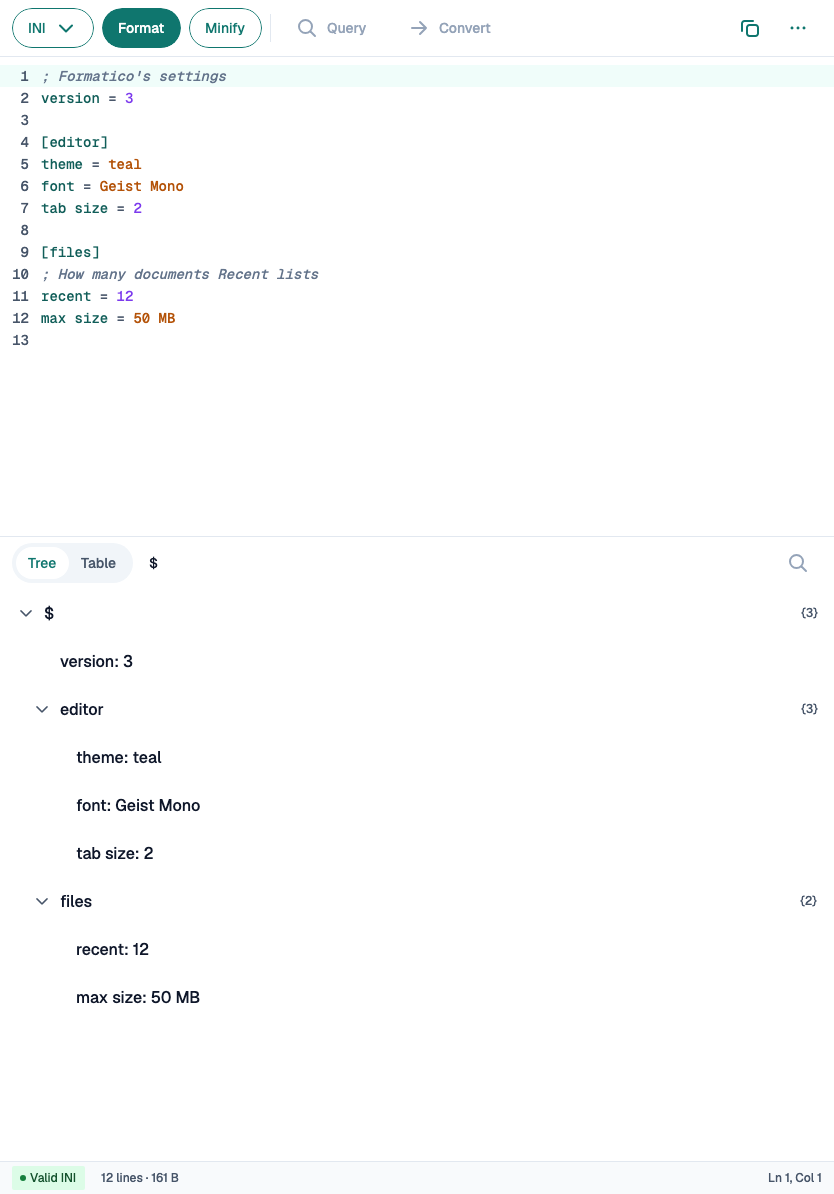
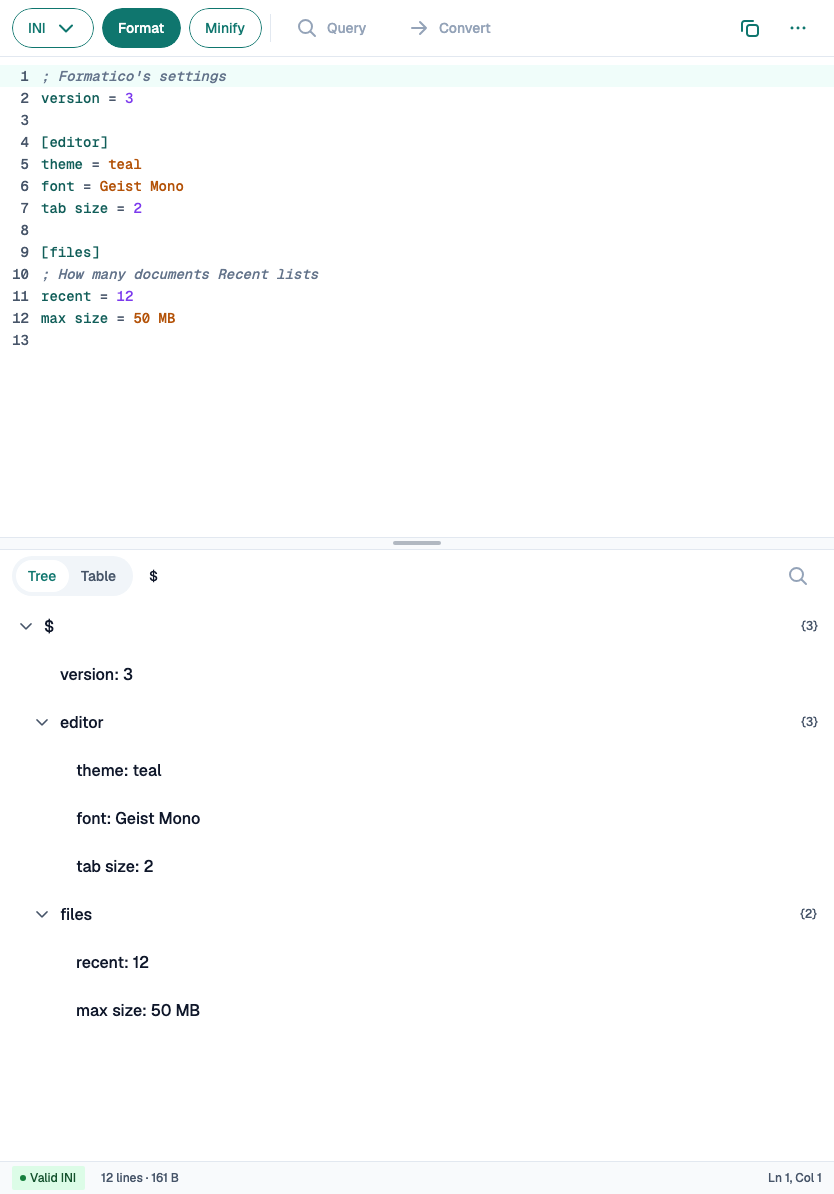
[DEV][Resize the text and the tree on a tablet by the handle between them]

diff --git a/feature/workspace/src/commonMain/kotlin/com/developersancho/formatico/feature/workspace/WorkspaceScreen.kt b/feature/workspace/src/commonMain/kotlin/com/developersancho/formatico/feature/workspace/WorkspaceScreen.kt
@@ -2,6 +2,7 @@ package com.developersancho.formatico.feature.workspace
 
 import androidx.compose.foundation.background
 import androidx.compose.foundation.layout.Arrangement
+import androidx.compose.foundation.layout.Box
 import androidx.compose.foundation.layout.Column
 import androidx.compose.foundation.layout.Row
 import androidx.compose.foundation.layout.Spacer
@@ -12,6 +13,7 @@ import androidx.compose.foundation.layout.height
 import androidx.compose.foundation.layout.padding
 import androidx.compose.runtime.Composable
 import androidx.compose.runtime.getValue
+import androidx.compose.runtime.mutableFloatStateOf
 import androidx.compose.runtime.mutableStateOf
 import androidx.compose.runtime.remember
 import androidx.compose.runtime.saveable.rememberSaveable
@@ -61,8 +63,11 @@ private const val TEXT_SHARE = 1.15f / 2.15f
 /** The share of a wide window the text takes beside the table: the design's 0.72 to 1.28. */
 private const val TABLE_TEXT_SHARE = 0.72f / 2f
 
-/** How tall the text stands above the tree on a tablet. */
-private val TextHeight = 480.dp
+/** How tall the text stands above the tree on a tablet until its handle is dragged: the board's 480, and its line. */
+private val TextHeight = 481.dp
+
+/** The strip the handle stands in between the text and the tree on a tablet: the board's 13, less the two lines. */
+private val HandleGap = 11.dp
 
 /** The workspace of the open document whose id is [documentId]: its toolbar, its text, its tree and its status. */
 @Composable
@@ -108,50 +113,83 @@ internal fun WorkspaceScreen(
         return
     }
     val wide = layout == WorkspaceLayout.Wide
-    val table = document.view.pane == DocumentPane.Table
-    val problems = document.view.pane == DocumentPane.Problems && state.problems.isNotEmpty()
     Column(modifier = modifier.fillMaxSize().background(PantrixTheme.colors.surface)) {
         Toolbar(state = state, document = document, layout = layout, onIntent = onIntent, commands = commands)
         PantrixHorizontalDivider()
-        if (table && !wide) {
+        if (document.view.pane == DocumentPane.Table && !wide) {
             // A tablet gives the table the whole room, as its board draws it.
             TablePane(state, layout, onIntent, commands, Modifier.weight(1f).fillMaxWidth())
             StatusBar(state = state, layout = layout)
             return@Column
         }
+        DocumentPanes(state, text, layout, onIntent, commands, Modifier.weight(1f).fillMaxWidth())
+        StatusBar(state = state, layout = layout, editor = text)
+    }
+}
+
+/**
+ * The text and, beside it in a wide window, the tree, the table or the problems; on a tablet the tree or the problems
+ * under it, past a strip of the page's background whose handle makes the text taller and shorter.
+ */
+@Composable
+private fun DocumentPanes(
+    state: WorkspaceState,
+    editor: CodeEditorState,
+    layout: WorkspaceLayout,
+    onIntent: (WorkspaceIntent) -> Unit,
+    commands: DocumentCommands,
+    modifier: Modifier = Modifier
+) {
+    val wide = layout == WorkspaceLayout.Wide
+    val pane = state.document?.view?.pane
+    val table = pane == DocumentPane.Table
+    val problems = pane == DocumentPane.Problems && state.problems.isNotEmpty()
+    // How tall the text stands on a tablet, as its handle leaves it.
+    var textHeight by rememberSaveable { mutableFloatStateOf(TextHeight.value) }
+    val second: @Composable () -> Unit = {
+        when {
+            table -> TablePane(state, layout, onIntent, commands)
+            problems -> ProblemsPane(state = state, editor = editor, layout = layout, onIntent = onIntent)
+            else -> TreePane(state = state, layout = layout, onIntent = onIntent)
+        }
+    }
+    if (wide) {
         PantrixTwoPane(
             first = {
-                if (wide) {
-                    Row(modifier = Modifier.fillMaxSize()) {
-                        TextPane(state, text, onIntent, Modifier.weight(1f).fillMaxHeight())
-                        PantrixVerticalDivider()
-                    }
-                } else {
-                    Column(modifier = Modifier.fillMaxSize()) {
-                        TextPane(state, text, onIntent, Modifier.weight(1f).fillMaxWidth())
-                        PantrixHorizontalDivider()
-                    }
+                Row(modifier = Modifier.fillMaxSize()) {
+                    TextPane(state, editor, onIntent, Modifier.weight(1f).fillMaxHeight())
+                    PantrixVerticalDivider()
                 }
             },
-            second = {
-                when {
-                    table -> TablePane(state, layout, onIntent, commands)
-                    problems -> ProblemsPane(state = state, editor = text, layout = layout, onIntent = onIntent)
-                    else -> TreePane(state = state, layout = layout, onIntent = onIntent)
-                }
-            },
-            modifier = Modifier.weight(1f).fillMaxWidth(),
-            orientation = if (wide) TwoPaneOrientation.SideBySide else TwoPaneOrientation.Stacked,
-            firstSize = when {
-                !wide -> PaneSize.Fixed(TextHeight)
-                table -> PaneSize.Fraction(TABLE_TEXT_SHARE)
-                else -> PaneSize.Fraction(TEXT_SHARE)
-            },
+            second = second,
+            modifier = modifier,
+            firstSize = PaneSize.Fraction(if (table) TABLE_TEXT_SHARE else TEXT_SHARE),
             gap = 0.dp,
             tagKey = "panes"
         )
-        StatusBar(state = state, layout = layout, editor = text)
+        return
     }
+    val surface = Modifier.fillMaxSize().background(PantrixTheme.colors.surface)
+    PantrixTwoPane(
+        first = {
+            Column(modifier = surface) {
+                TextPane(state, editor, onIntent, Modifier.weight(1f).fillMaxWidth())
+                PantrixHorizontalDivider()
+            }
+        },
+        second = {
+            Column(modifier = surface) {
+                PantrixHorizontalDivider()
+                Box(modifier = Modifier.weight(1f).fillMaxWidth()) { second() }
+            }
+        },
+        modifier = modifier.background(PantrixTheme.colors.background),
+        orientation = TwoPaneOrientation.Stacked,
+        firstSize = PaneSize.Fixed(textHeight.dp),
+        gap = HandleGap,
+        tagKey = "panes",
+        onFirstSizeChange = { size -> if (size is PaneSize.Fixed) textHeight = size.size.value }
+    )
 }
 
 /** The design's toolbar heights: 48 in a wide window, 56 on a tablet. */

diff --git a/feature/workspace/src/commonTest/kotlin/com/developersancho/formatico/feature/workspace/WorkspaceScreenTest.kt b/feature/workspace/src/commonTest/kotlin/com/developersancho/formatico/feature/workspace/WorkspaceScreenTest.kt
@@ -1,6 +1,7 @@
 package com.developersancho.formatico.feature.workspace
 
 import androidx.compose.runtime.CompositionLocalProvider
+import androidx.compose.ui.input.key.Key
 import androidx.compose.ui.test.ExperimentalTestApi
 import androidx.compose.ui.test.assert
 import androidx.compose.ui.test.assertIsEnabled
@@ -10,7 +11,12 @@ import androidx.compose.ui.test.getBoundsInRoot
 import androidx.compose.ui.test.hasText
 import androidx.compose.ui.test.onNodeWithText
 import androidx.compose.ui.test.performClick
+import androidx.compose.ui.test.performKeyInput
 import androidx.compose.ui.test.performTextInput
+import androidx.compose.ui.test.performTouchInput
+import androidx.compose.ui.test.pressKey
+import androidx.compose.ui.test.requestFocus
+import androidx.compose.ui.test.swipeDown
 import androidx.compose.ui.test.v2.runComposeUiTest
 import androidx.compose.ui.unit.DpSize
 import androidx.compose.ui.unit.dp
@@ -27,6 +33,7 @@ import com.pantrixui.testing.TestFileSaver
 import com.pantrixui.testing.assertNoFindings
 import com.pantrixui.testing.hasPantrixTag
 import com.pantrixui.testing.onPantrixNode
+import kotlin.math.abs
 import kotlin.test.Test
 import kotlin.test.assertEquals
 import kotlin.test.assertTrue
@@ -87,6 +94,8 @@ class WorkspaceScreenTest {
         awaitText("5 lines · ", substring = true)
         awaitText("UTF-8 · LF · 2 spaces")
         onPantrixNode("Node", "id", scope = "TreeView_document").assertExists()
+        // The text and the tree stand as the board splits them: there is no handle between them.
+        onPantrixNode("TwoPaneHandle", "panes").assertDoesNotExist()
         onPantrixNode("Button", "sort_keys").assertIsEnabled()
         onPantrixNode("Button", "format").performClick()
         onPantrixNode("Node", "customer.name", scope = "TreeView_document").performClick()
@@ -137,6 +146,37 @@ class WorkspaceScreenTest {
         onPantrixNode("Item", "customer", scope = "Breadcrumb_path").performClick()
 
         assertEquals(listOf<WorkspaceIntent>(WorkspaceIntent.Select("$.customer")), intents)
+        assertNoFindings(findings)
+    }
+
+    @Test
+    fun aTabletsHandleMakesTheTextTallerAndShorter() = runComposeUiTest {
+        val findings = PantrixFindings()
+        setContent {
+            PantrixTestTheme(window = tablet, findings = findings, clock = clock) {
+                WorkspaceScreen(state = stateOf(order, Format.Json), onIntent = {}, commands = rememberDocumentCommands(Workbench()))
+            }
+        }
+        awaitText("Valid JSON", forgetting = findings)
+        val handle = onPantrixNode("TwoPaneHandle", "panes")
+        val top = onPantrixNode("TwoPane", "panes").getBoundsInRoot().top
+        val split = { handle.getBoundsInRoot().let { (it.top + it.bottom) / 2 } - top }
+        // The handle stands in the middle of the strip under the text's 480 and its line.
+        val start = split()
+        assertTrue(abs((start - 486.5.dp).value) <= 1f, "The handle is at $start")
+
+        // An arrow makes the text a step taller, and Home as short as it may be.
+        handle.requestFocus()
+        handle.performKeyInput { pressKey(Key.DirectionDown) }
+        assertEquals(start + 16.dp, split())
+        handle.performKeyInput { pressKey(Key.MoveHome) }
+        val shortest = split()
+        assertTrue(shortest < start, "The handle is at $shortest")
+
+        // A drag makes it taller again.
+        handle.performTouchInput { swipeDown(startY = centerY, endY = centerY + 200f) }
+        assertTrue(split() > shortest, "The handle is at ${split()}")
+        onPantrixNode("TreeView", "document").assertExists()
         assertNoFindings(findings)
     }
 

diff --git a/docs/PANTRIX_FINDINGS.md b/docs/PANTRIX_FINDINGS.md
@@ -228,11 +228,21 @@ Formatico'nun işini tıkayan bir maddenin durumu `tıkıyor` der (`Durum: açı
     *   Nerede: [Components](https://pantrixui.com/components); MCP `search_components`.
     *   Öneri: simge, başlık, açıklama ve isteğe bağlı bir eylem alan bir `PantrixEmptyState`; tasarım sisteminde karşılığı.
     *   Durum: açık. Workspace (2026-11-03) aynı hâli beş yerde kendi çiziyor (`PaneMessage`): editörü bekleyen metin bölmesi, okunmayan bir biçim, düz metin, boş belge ve hiçbir değeri okunamayan belge.
-*   [ ] **İki bölmenin arasındaki ayırıcı sürüklenmiyor (2026-11-03).**
+*   [x] **İki bölmenin arasındaki ayırıcı sürüklenmiyor (2026-11-03).**
     *   Ne: Workspace-834 panosunda metin ile ağaç üst üste; aralarındaki ayırıcının bir tutamacı var ("Resize the text and the tree"): sürüklenince bölmelerin payı değişiyor. `PantrixTwoPane` iki bölmeyi `firstSize` (pay ya da sabit boy) ve `gap` ile ayırıyor, katlanan ekranın menteşesine uyuyor; ama ayırıcıyı sürükleyip `firstSize`'ı değiştirmenin yolu yok, `search_components "resizable split pane divider drag"` de başka bir bileşen bulmuyor.
     *   Nerede: [Two Pane](https://pantrixui.com/components/adaptive-two-pane); MCP `get_api PantrixTwoPane`, `search_components`.
     *   Öneri: `PantrixTwoPane`'e `onFirstSizeChange` ve sürüklenen bir ayırıcı (klavyeyle oklar, ekran okuyucuya "ayırıcı, yüzde 45"); ya da ayrı bir `PantrixSplitPane`.
-    *   Durum: açık, tıkıyor. (2026-11-04) Workspace-834 panosunun metin ile ağaç arasındaki tutamacı buna bağlı.  Kodda (2026-11-03) tablette metin 480 dp'lik sabit bölme, arada tutamaksız bir çizgi.
+    *   Durum: kapandı (0.1.2-SNAPSHOT, 2026-11-04). Önerildiği gibi geldi: `PantrixTwoPane(onFirstSizeChange)` boşluğa bir tutamaç koyuyor; parmak, işaretçi ve klavye (oklar, Home, End) ilk bölmeyi büyütüp küçültüyor, ekran okuyucuya bölmenin payı ayarlanabilir bir değer olarak söyleniyor, menteşe bölünce tutamaç yok. Tablette metin ile ağaç ya da problemler arasında artık panodaki 13 dp'lik şerit var: iki çizgi arasında sayfanın zemini ve ortasında tutamaç. Metin 480 dp'den başlıyor, sürüklenen boy ekranda tutuluyor (`rememberSaveable`). Denendi: JVM, iOS simülatörü ve Wasm testlerinde ok, Home ve sürükleme; geniş pencerede tutamaç yok. Denerken iki bulgu çıktı: "İki bölmenin tutamacı altındaki dokunuşları alıyor", "Bölme tutamacı tasarım sistemindekinden başka çiziliyor".
+*   [ ] **İki bölmenin tutamacı altındaki dokunuşları alıyor (2026-11-04).**
+    *   Ne: `PantrixTwoPane`'in tutamacı, yakalandığı şeridi (`ListDetailScaffoldStyle.handleTarget`: Android'de 48, iOS'ta 44, masaüstünde ve web'de 16 dp) boşluğun ortasına, bölmelerin üstüne ve odanın bütün genişliğince koyuyor. Şerit boşluktan genişse bölmelerin kenarındaki dokunuşları da o alıyor: sürüklenmeyen bir dokunuş alttaki denetime geçmiyor. Workspace-834'te boşluk panodaki gibi 11 dp; Android'de şerit ağacın görünüm seçicisinin (Tree, Table, Problems) üst 15 dp'sini, iOS'ta 11 dp'sini kapatıyor ve oraya dokunmak hiçbir şey yapmıyor; metnin son satırının yarısı da öyle. Masaüstünde 16 dp'lik şerit seçiciye yetişmiyor. Bir sınamayla görüldü: seçicinin üst kenarının 2 dp altına dokunmak Android'de ve iOS'ta görünüm değiştirmiyor, ortasına dokunmak değiştiriyor.
+    *   Nerede: MCP `get_component TwoPane` ("A handle"); kaynak jar'da `TwoPane.kt` ve `PaneHandle.kt` (`Modifier.fillMaxWidth().height(look.target)`).
+    *   Öneri: şerit yalnızca çubuğun çevresini yakalasın (Material 3'ün sürükleme tutamacı gibi çubuğun boyunca 48 dp'lik bir dokunma hedefi); ya da sürüklenmeyen dokunuşları alttaki bölmeye bıraksın. Belge, şeridin boşluktan geniş olduğunda bölmelerin kenarını kapattığını söylesin.
+    *   Durum: açık. Formatico'yu tıkamıyor. Kodda boşluk panodaki 11 dp'de kaldı; şerit için boşluk büyütülmedi, çünkü pano 13 dp çiziyor.
+*   [ ] **Bölme tutamacı tasarım sistemindekinden başka çiziliyor (2026-11-04).**
+    *   Ne: Tasarım sisteminin `.ptx-pane-handle`'ı 4×32 px'lik bir çubuk, `--border-strong` renginde (açıkta slate-500); odakta şeridin çevresine `--focus-ring` çiziyor. Kütüphanenin tutamacı çubuğu `textSecondary`'nin %40'ında çiziyor (bir sayfanın tutamacının rengi), işaretçinin altında ve sürüklenirken koyulaştırıyor, odakta çubuğu odak rengine boyuyor. Android'de ve iOS'ta çubuk 48 dp uzun. Panolar tasarım sistemine uyuyor: Workspace-834'te çubuk koyu ve 32 px, kodda açık; dokunmatikte 48 dp. `PantrixTwoPane` renk almıyor, `ListDetailScaffoldStyle` yalnızca boyları alıyor.
+    *   Nerede: Claude Design'daki tasarım sistemi, `components/bundle.css` (`.ptx-pane-handle`); MCP `get_api ListDetailScaffoldStyle`; kaynak jar'da `PaneHandle.kt` (`barColor`).
+    *   Öneri: iki taraftan biri ötekine uysun: kütüphane çubuğu `borderStrong` ile çizsin, ya da tasarım sistemi `text-secondary`'nin %40'ını ve dokunmatikte 48'i alsın. Tutamacın rengi bir stilde ya da `colors`'ta verilebilsin.
+    *   Durum: açık. Formatico'yu tıkamıyor. Kodda kütüphanenin çizdiği.
 *   [ ] **Ayın adıyla yazılan, haftanın günü olmayan bir tarih yok (2026-11-03).**
     *   Ne: Workspace-390 panosunun seçili değer kartı bir tarihi "28 October 2026, 14:32 UTC" diye, haftanın gününü alt satırda yazıyor. `PantrixStrings`'in `date` kısa biçimi veriyor ("Oct 28, 2026"); `longDate` ayın adını yazıyor ama haftanın gününü de katıyor ("Wednesday, October 28, 2026"), çünkü ekran okuyucunun bir takvim gününü duyduğu biçim (`longDateTemplate`). Haftanın günü olmadan ayın adıyla yazan bir biçim yok.
     *   Nerede: MCP `get_api PantrixStrings` (`date`, `longDate`, `longDateTemplate`); MCP `get_documentation_page guide/date-time`.

diff --git a/docs/OPEN_ITEMS.md b/docs/OPEN_ITEMS.md
@@ -162,9 +162,9 @@ Her madde: **ne**, **nerede**, **öneri**, **durum**. Kapanan madde silinmez: ne
 *   [ ] **Değer önizlemesi yalnızca sözcük (2026-11-03).**
     *   Ne: Panolarda ağacın satırı bir renk örneği, bir bağlantı simgesi ve bir küçük resim gösteriyor; `PantrixTreeView` satırın sonuna yalnızca metin aldığı için Formatico "Colour", "Link", "Picture" yazıyor. Tarih, okuyucunun dilinde UTC olarak yazılıyor. Bkz. `PANTRIX_FINDINGS.md`.
     *   Durum: açık.
-*   [ ] **Tabletin metin ile ağaç arasındaki ayırıcısı sürüklenmiyor (2026-11-03).**
+*   [x] **Tabletin metin ile ağaç arasındaki ayırıcısı sürüklenmiyor (2026-11-03).**
     *   Ne: Workspace-834 panosundaki "Resize the text and the tree" tutamacı çizilmiyor; metin 480 dp, ağaç geri kalanı. Bkz. `PANTRIX_FINDINGS.md`.
-    *   Durum: açık.
+    *   Durum: kapandı (2026-11-04). Tablette metin ile ağaç ya da problemler arasında panodaki 13 dp'lik şerit ve `PantrixTwoPane`'in tutamacı var; metin 480 dp'den başlıyor, sürüklenen boyu ekran tutuyor. Tutamacın rengi ve dokunmatikteki şeridi panodan ayrılıyor: iki yeni Pantrix bulgusu.
 *   [x] **Koin'in bağlamı `App()` bitince kapanmıyor (2026-11-03).**
     *   Ne: Masaüstünün UI testlerinde bir testin açtığı belgeler bir sonraki testin `App()`'inde açık duruyor: `KoinApplication` (Koin 4.2.2) aynı süreçte bağlamını yeniden kullanıyor, `Workbench` tekil olarak yaşıyor. Uygulamada istenen bu (döndürmede sekmeler kalıyor), testlerde ise sıra bağımlılığı demek. `AppTest` bugün geçiyor, çünkü belge açan tek test sonunda yeni sekmeye dönüyor.
     *   Öneri: `App()`'e testin vereceği bir Koin yapılandırması ya da testlerde `stopKoin()`; Koin'in `KoinApplication` belgesinde bu davranışa bakmak.
